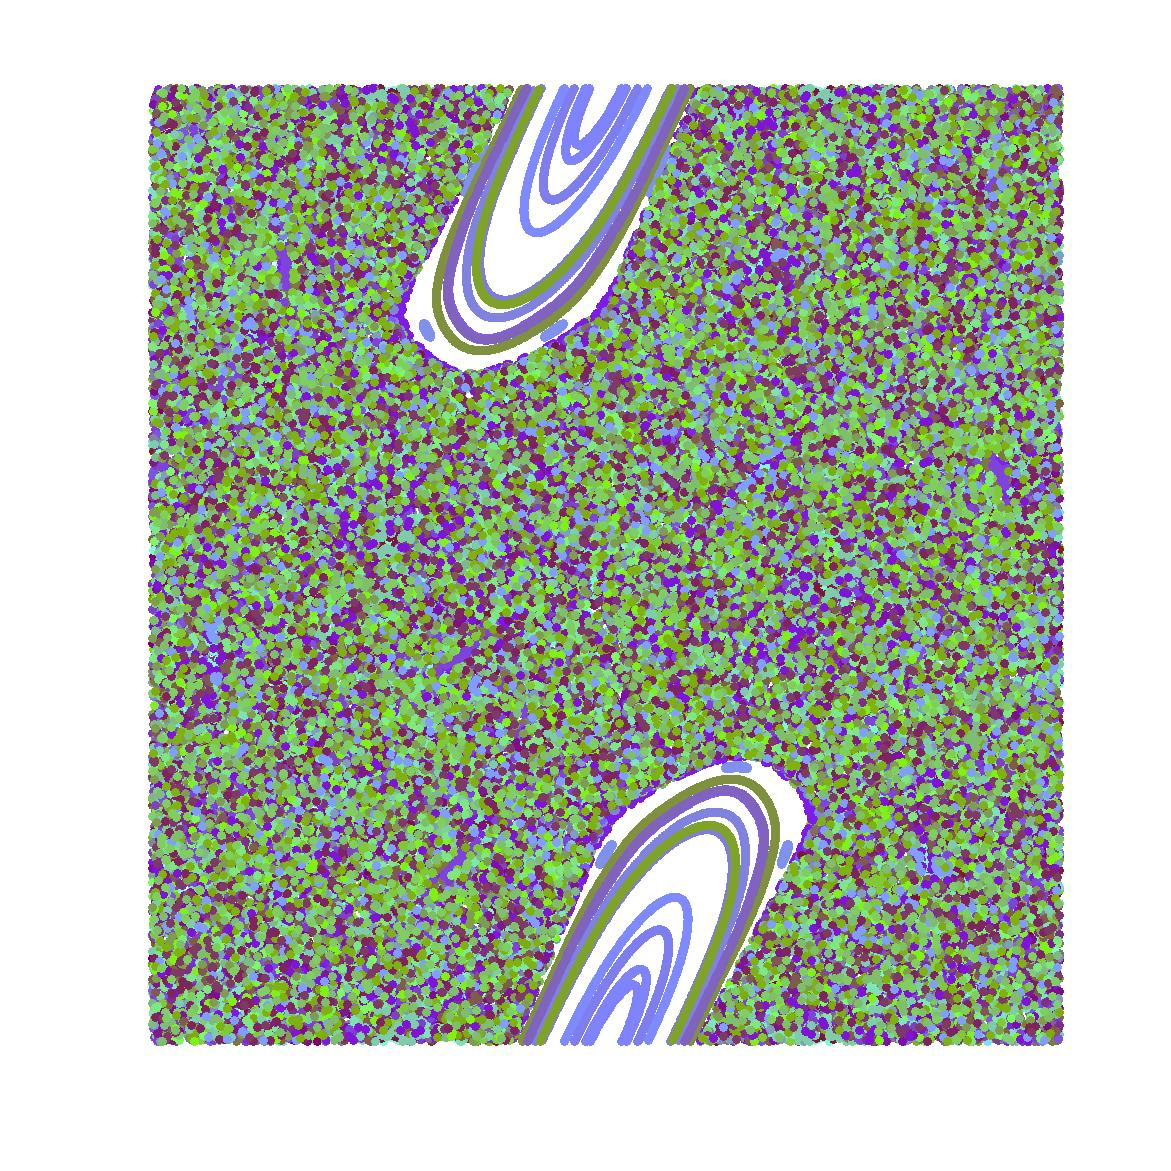
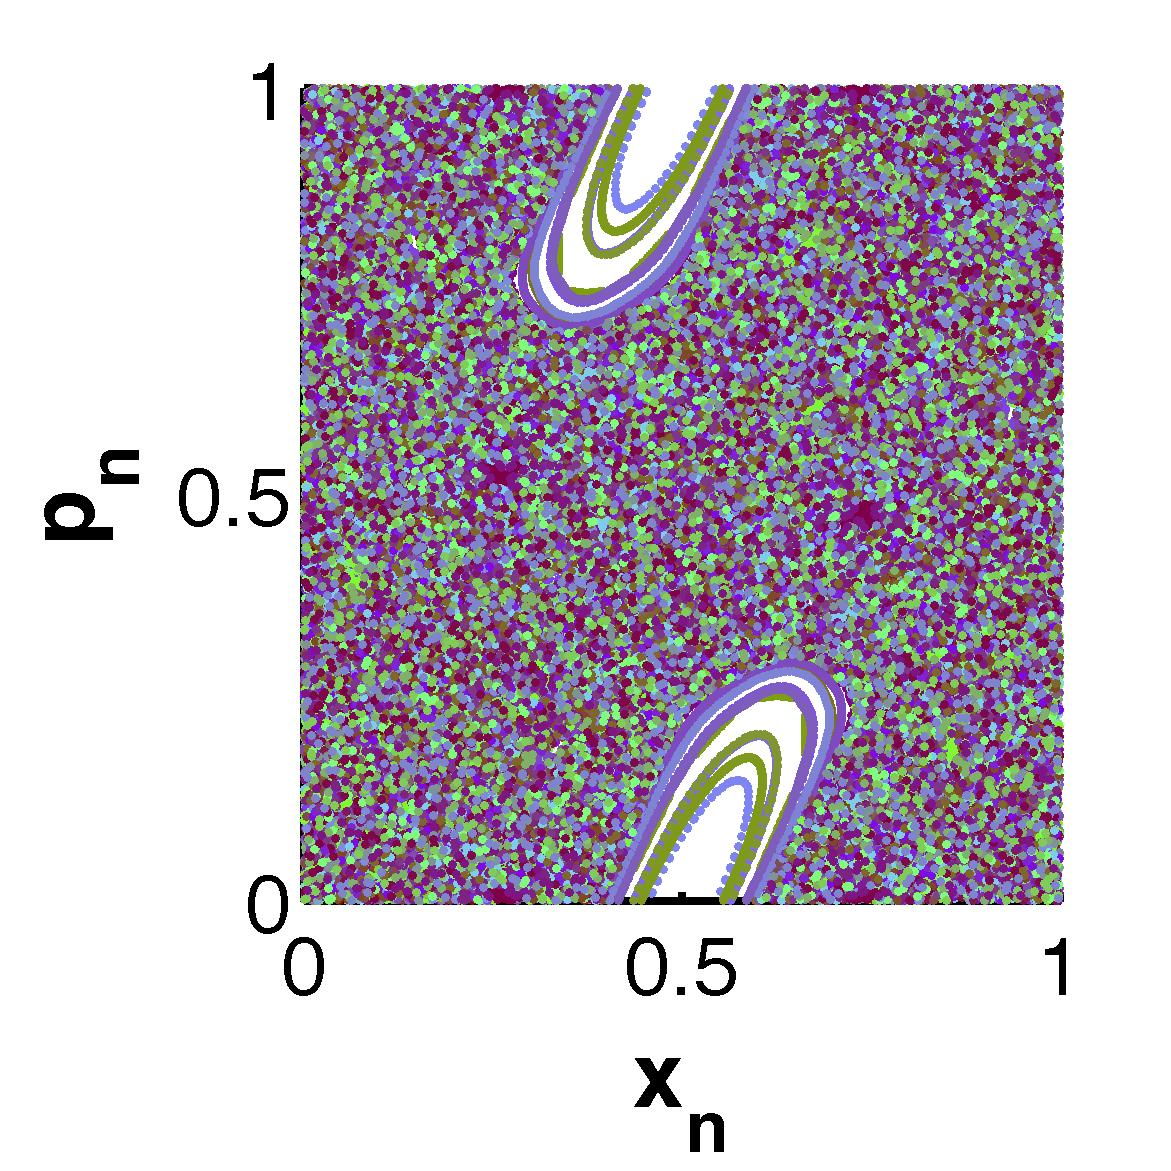
Images

diff --git a/Practica/Assignment 1/code/assignment_b_fancy_diff_k.m b/Practica/Assignment 1/code/assignment_b_fancy_diff_k.m
@@ -3,8 +3,8 @@ clc; clear all; close all force;
 num_runs = 100;
 num_iter = 1000;
 
-% ks = [0, 0.2, 0.4, 0.6, 0.8, 1, 2, 3, 4];
-ks = 0.6;
+ks = [0, 0.2, 0.4, 0.6, 0.8, 1, 2, 3, 4];
+% ks = 0.6;
 
 % colors = lbmap(num_runs, 'RedBlue');
 
@@ -20,7 +20,10 @@ for k = ks
     end
     hold off;
  
-    set(gca, 'visible', 'off');
+%     set(gca, 'visible', 'off');
+    xlabel('{x_n}');
+    ylabel('{p_n}');
+    
     high_quality_plot('Save', sprintf('../report/img/assignment_b_fancy_k_%d', round(k*10)), 'Ext', 'jpeg', 'FontSize', 22, 'PaperWidth', 4, 'PaperHeight', 4, 'Margin', 0.05);
     
     close all;
